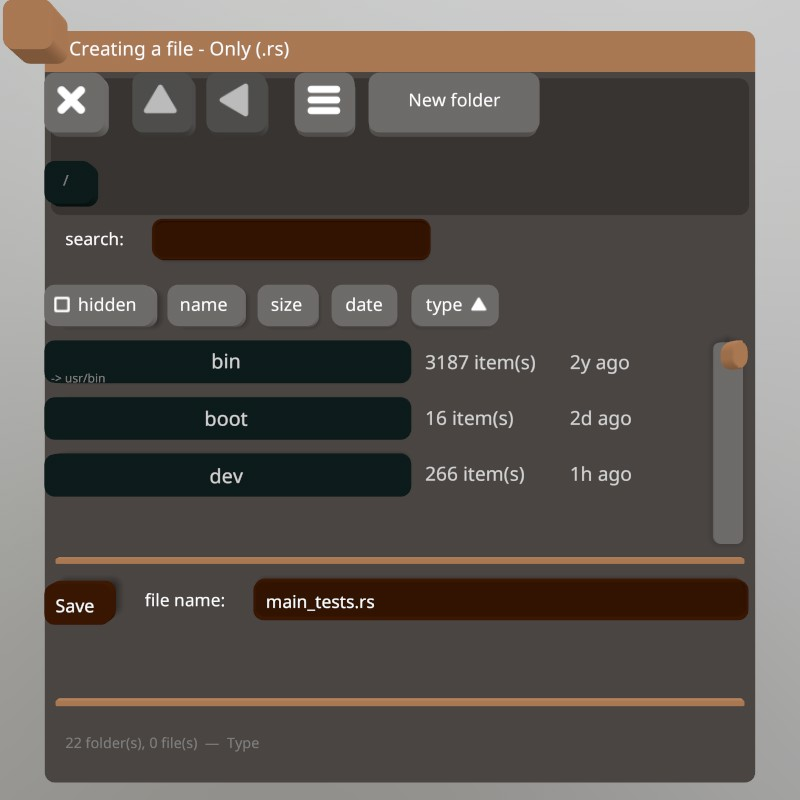
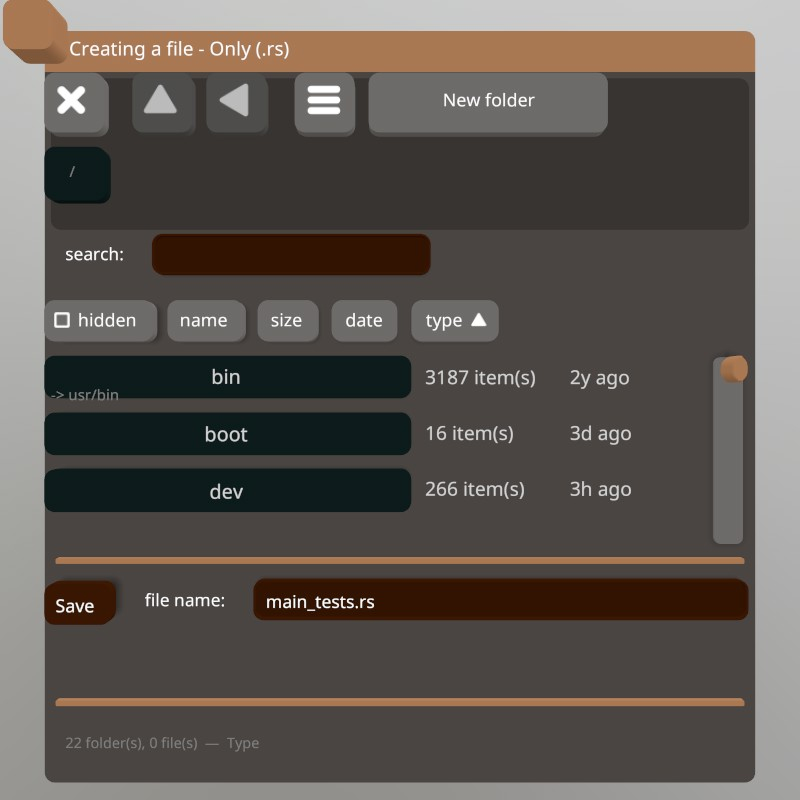
Adjusting Ui

diff --git a/src/tools/file_browser_b.rs b/src/tools/file_browser_b.rs
@@ -519,10 +519,9 @@ impl FileBrowserB {
                     self.new_folder_name.clear();
                 }
             }
+            Ui::next_line();
         }
         Ui::pop_text_style();
-
-        Ui::next_line();
 
         if self.show_new_folder && self.new_folder_allowed() {
             Ui::push_text_style(self.appearence.label_style);
@@ -578,7 +577,7 @@ impl FileBrowserB {
         // Breadcrumb buttons are smaller than regular buttons.
         let at = Ui::get_layout_at();
         let row_w = Ui::get_layout_remaining().x;
-        Ui::layout_reserve(Vec2::new(row_w, btn.y), true, 0.0);
+        Ui::layout_reserve(Vec2::new(row_w, btn.y), false, 0.0);
 
         // Estimated width of a breadcrumb button
         let btn_w = |label: &str| label.chars().count() as f32 * btn.x * 0.15 + btn.y;
@@ -635,7 +634,6 @@ impl FileBrowserB {
             self.show_new_folder = false;
         }
         Ui::pop_tint();
-        Ui::next_line();
     }
 
     fn draw_search_bar(&mut self) {
@@ -730,8 +728,11 @@ impl FileBrowserB {
         let slider_w = line * 0.7;
 
         // Effective height of ONE row, so the drawn buttons always fit in the reserved list
-        // height:
-        let row_h = if self.grid_view { line * 2.0 } else { line };
+        // height. The grid cells are explicitly `line * 2.0` tall, but the auto-height list
+        // buttons/radios reserve the line height of the CURRENT (list) text style, which differs
+        // from the caller's `line` (captured with the default window style): using `line` here
+        // under-estimated the row height and made the last row(s) unreachable at max scroll.
+        let row_h = if self.grid_view { line * 2.0 } else { Ui::get_line_height() };
 
         // In list mode each row holds 1 entry. In grid mode, the column count adapts to the window
         // width: fill it with as many columns as possible.
@@ -855,7 +856,13 @@ impl FileBrowserB {
                         Ui::pop_tint();
                     }
                 }
-                Ui::next_line();
+                // NOTE: no explicit `Ui::next_line()` at the end of a grid row: the LAST button of
+                // the row has already ended the line (`ui_layout_reserve` calls `ui_nextline`
+                // internally, undone only by `ui_sameline`), so an explicit one would consume a
+                // SECOND `gutter` per row. The scroll math (`visible_rows_count` / `max_scroll`)
+                // assumes exactly `row_h + gutter` per row, and that extra gutter made the
+                // scrollbar thumb reach the end of its track while the last row(s) of the list
+                // stayed unreachable.
             }
         } else {
             // ----- LIST MODE (3 aligned columns: name | size | date) -----
